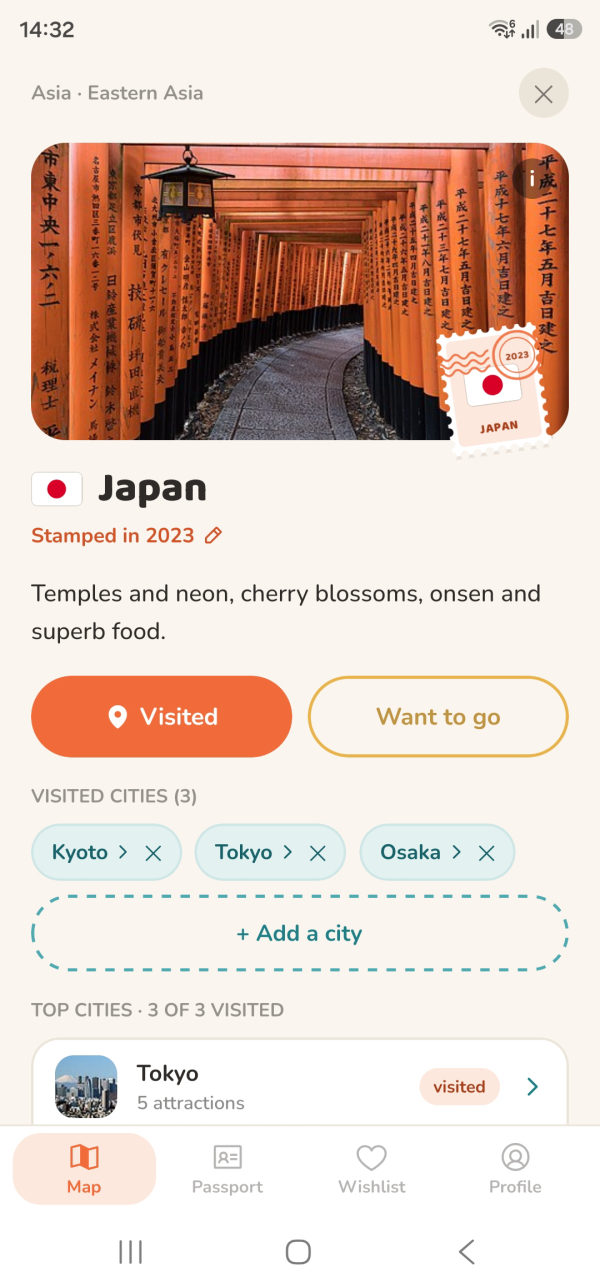
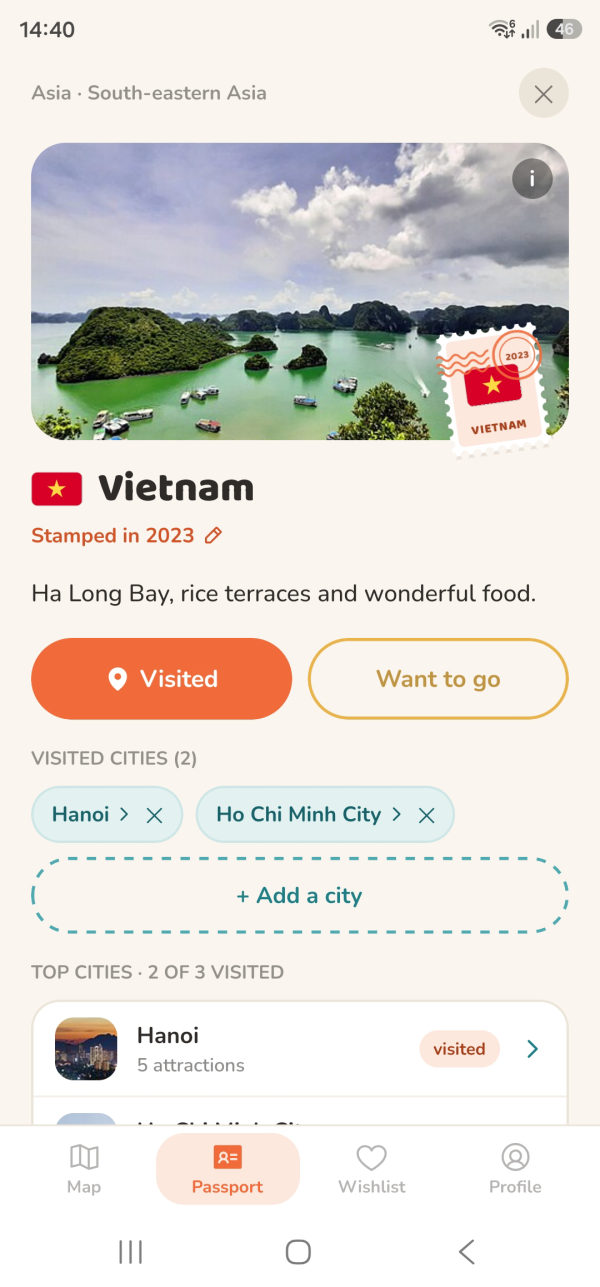
Swap the country and passport screenshots

diff --git a/index.html b/index.html
@@ -113,11 +113,11 @@
             <figcaption>The stamp map</figcaption>
           </figure>
           <figure class="shot" role="listitem">
-            <div class="frame"><img src="assets/screen-country.jpg" alt="Japan's page with a photo, its stamp from 2023 and the visited cities" loading="lazy" width="600" height="1287"></div>
+            <div class="frame"><img src="assets/screen-country.jpg" alt="Vietnam's page with a photo of Ha Long Bay, its stamp from 2023 and the visited cities" loading="lazy" width="600" height="1287"></div>
             <figcaption>Every country, stamped</figcaption>
           </figure>
           <figure class="shot" role="listitem">
-            <div class="frame"><img src="assets/screen-stamps.jpg" alt="The passport's stamp collection, each stamp with its flag and year" loading="lazy" width="600" height="1287"></div>
+            <div class="frame"><img src="assets/screen-stamps.jpg" alt="The passport: 39 of 236 countries, cities, regions, continents and the first stamps" loading="lazy" width="600" height="1287"></div>
             <figcaption>Your passport</figcaption>
           </figure>
           <figure class="shot" role="listitem">
